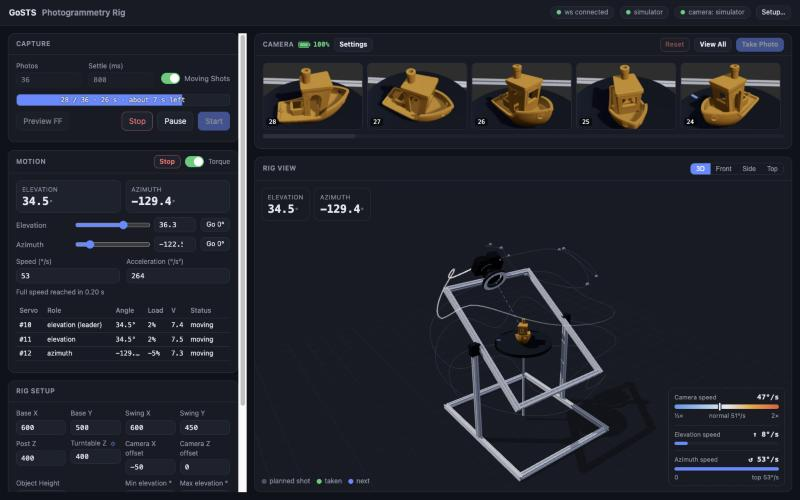
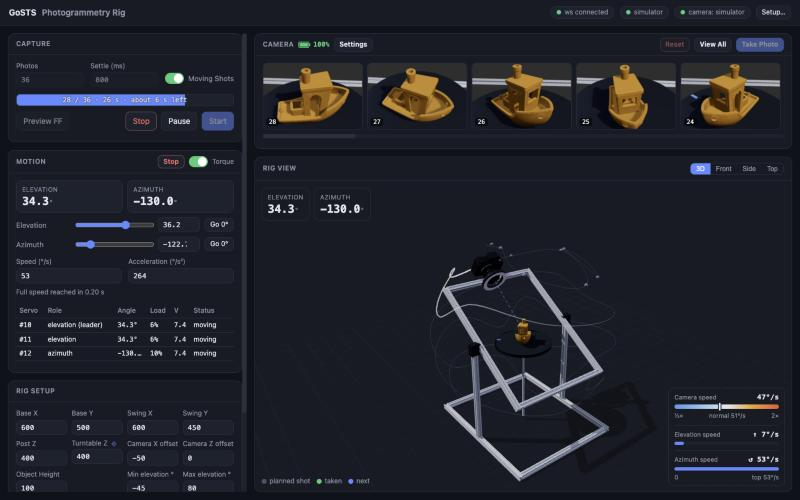
gosts-rig: dark slim scrollbars everywhere (left column, log, photo grid, dialogs); README rewritten for the app's users; new screenshot

diff --git a/cmd/gosts-rig/web/index.html b/cmd/gosts-rig/web/index.html
@@ -113,11 +113,16 @@ td.mono { font-family: var(--mono); }
 .battery.empty { color: var(--bad); }
 /* Camera: the timeline of photos (3:2), newest on the left, scrolling sideways. */
 .timeline { display: flex; gap: 8px; overflow-x: auto; min-width: 0; max-width: 100%; min-height: 120px; align-items: center; padding-bottom: 8px; }
-/* A slim scrollbar that stays visible (macOS otherwise hides it until scrolling). */
+/* Slim scrollbars in the theme's colours that stay visible (macOS otherwise hides them until
+   scrolling): the timeline's, and the scrolling columns, log, photo grid and dialogs'. */
 .timeline::-webkit-scrollbar { height: 8px; }
-.timeline::-webkit-scrollbar-track { background: var(--panel-2); border-radius: 4px; }
-.timeline::-webkit-scrollbar-thumb { background: var(--border); border-radius: 4px; }
-.timeline::-webkit-scrollbar-thumb:hover { background: var(--muted); }
+.left::-webkit-scrollbar, #log::-webkit-scrollbar, .gallery-grid::-webkit-scrollbar, .modal::-webkit-scrollbar { width: 8px; }
+.timeline::-webkit-scrollbar-track, .left::-webkit-scrollbar-track, #log::-webkit-scrollbar-track,
+.gallery-grid::-webkit-scrollbar-track, .modal::-webkit-scrollbar-track { background: var(--panel-2); border-radius: 4px; }
+.timeline::-webkit-scrollbar-thumb, .left::-webkit-scrollbar-thumb, #log::-webkit-scrollbar-thumb,
+.gallery-grid::-webkit-scrollbar-thumb, .modal::-webkit-scrollbar-thumb { background: var(--border); border-radius: 4px; }
+.timeline::-webkit-scrollbar-thumb:hover, .left::-webkit-scrollbar-thumb:hover, #log::-webkit-scrollbar-thumb:hover,
+.gallery-grid::-webkit-scrollbar-thumb:hover, .modal::-webkit-scrollbar-thumb:hover { background: var(--muted); }
 .timeline .thumb { flex: none; height: 120px; aspect-ratio: 3 / 2; position: relative; padding: 0; border: 1px solid var(--border); border-radius: 8px;
   overflow: hidden; background: var(--panel-2); cursor: zoom-in; }
 .timeline .thumb:hover { border-color: var(--accent); }

diff --git a/cmd/gosts-rig/README.md b/cmd/gosts-rig/README.md
@@ -1,121 +1,71 @@
 # gosts-rig: photogrammetry rig
 
-An example app of [Go ST Servo](../../README.md) (`github.com/frifox/gosts`). Its servos are set up and
-calibrated with the servo console, [gosts-ctl](../gosts-ctl).
+Runs a turntable photogrammetry rig from the browser: plan a capture, watch the rig move in 3D, and get the photos
+straight off the camera. An example app of [Go ST Servo](../../README.md).
 
 ![gosts-rig: a moving-shots capture under way, the photos coming in and the rig drawn live](../../docs/gosts-rig.jpg)
 
-`gosts-rig` drives a photogrammetry rig built from 2020 extrusions: a 600×500 mm base with a
-600 mm post in the middle of each long side, an ST3215 on top of each post tilting a 600×450 mm frame
-(camera on one 450 mm bar, counterweight on the other) for the camera's **elevation**, and a third
-ST3215 turning the platform under the object for the **azimuth**.
+## The rig
+
+- A 600×500 mm base of 2020 extrusions with a post on each long side.
+- Two ST3215 servos on the posts tilt a frame carrying the camera: the **elevation**.
+- A third ST3215 turns the platform under the object: the **azimuth**.
+- A camera on USB that [gphoto2](http://gphoto.org) can drive (developed with a Sony A6600 in PC Remote mode).
+
+No hardware? The simulator stands in for the rig, the camera, or both.
+
+## Install and run
 
 ```bash
+brew install gphoto2                        # for a real camera
 go install github.com/frifox/gosts/cmd/gosts-rig@latest
 
-gosts-rig                           # pick the board in the browser (http://localhost:8081)
-gosts-rig -sim                      # simulated rig, no hardware needed
-gosts-rig -sim -camera sim          # and a simulated camera
+gosts-rig                                   # then open http://localhost:8081
+gosts-rig -sim -camera sim                  # simulated rig and camera
 ```
 
-Set up and calibrate the servos with gosts-ctl first (IDs, tuning, and "Set 0° to" so elevation 0° is
-the camera level with the object and azimuth 0° is the platform's front); the two programs can't use
-the serial port at the same time. In gosts-rig, **Setup** assigns the roles (by default #10 elevation
-leader, mirrored; #11 elevation follower; #12 azimuth); the Motion card sets the servos' speed (in °/s) and
-acceleration (in °/s², kept in the servos' steps of about 8.8°/s²; lower acceleration is gentler on the frame). The rig's servos are always switched
-to multi-turn when gosts-rig connects, so moves never take the long way round. Elevation moves go straight
-from where each elevation servo is to the target (kept within the min/max), each worked out in that servo's
-own turn count. Torque on holds the servos where they are: each restarts its turn count from its reading
-(multi-turn off and on) and holds that, first at 35% torque; if one moves away or strains instead, torque
-goes off again with an error naming it.
+## First time
 
-The page has the controls on the left (a **Motion** card that, until a board is connected, lists the serial
-ports to connect to, with Refresh; once connected, live elevation/azimuth: the rig moves as a slider is dragged or a value entered, with Stop shown while it moves, and Torque, and a
-**Capture** card that, until a camera is connected, lists the cameras to connect to (for now the
-simulated one, whose photos are the 3D view rendered from the camera on the rig, looking at the
-object, and any camera [gphoto2](http://gphoto.org) finds on USB, e.g. a Sony A6600 in PC Remote mode),
-and once connected has the number of photos, the settle time, and **Moving Shots**, with Start,
-Pause and Stop; Setup can disconnect either) and on the right a **Camera** card (its title shows the camera's battery level, read every minute: amber below
-20%, red below 10%; a timeline of every photo
-taken, newest on the left, during a capture too (as thumbnails the server shrinks, ~850 px wide: decoding a 24 MP photo for a tile stalled the Rig View), each first as a placeholder while it's taken and comes
-over; hovering one shows a delete button, which takes it off the timeline (its files stay); click one to see it full size, ← → to step, Esc to close;
-**Reset** (red; it asks first), which clears the timeline, **View All**, every photo in a grid over the whole page where a click
-shows one full size (← → to step, Esc, ← All Photos or a click beside the photo back to the grid where it was left, ✕ to close), and **Take Photo**) above the **Rig View**, a live perspective view
-of the rig on the right (a 3D model rendered with [three.js](https://threejs.org): 2020 extrusions, the
-ST3215s, the Sony A6600 with its ring flash, and [#3DBenchy](https://www.3dbenchy.com) (CC0) as the
-object; bundled in the binary, so no internet is needed), with
-every planned shot turning with the platform and turning green once taken; **Preview** animates the
-capture as the rig does it: the camera tilts while the turntable turns the object, the sphere of shots
-and a fading trail with it, coloured by the camera's speed against the path's average (neutral at normal, amber to coral up to 2×, blue down to ½×),
-with a speed key showing the speed now in °/s, and each axis' (elevation ↑↓, azimuth ↺↻) against the servos'
-top speed (red past it: a preview plays faster). Each photo pops its dot and fires the ring flash lightly. A running capture looks the same but follows the real rig (telemetry, smoothed), each
-shot's dot going as its photo is taken; when it ends the trail runs out and the dots return, taken ones green. The photos are spread as evenly as possible over the part of the sphere round the object the
-camera can reach (the min/max elevation in Rig Setup, which keeps the frame clear of the posts), on a
-golden-angle spiral, and taken in rows of similar elevation, each row in azimuth order with
-alternating direction, so the arm moves little and the platform never unwinds a whole turn. With
-**Moving Shots** (for a fast shutter) the rig doesn't stop: the same shots are taken along one smooth
-rising spiral, the platform turning one way while the camera climbs: the rig follows the same smooth curve
-the preview draws (goals streamed ~30 times a second just ahead of it, corrected for how far it trails, within
-the servos' speed and with gentle acceleration), each photo taken as the path passes its shot. The platform servo's multi-turn goals reach only about ±7.5
-turns from where its count started, so a long spiral goes in laps: as far as fits, then the rig stops for a moment
-while the servo's turn count is reset where it is (its calibrate-middle re-references the count; its own zero is
-put back straight after, so the angle reads as before; under a second), and the spiral carries on (any number of
-photos: 400 make a 13-turn spiral, one reset). If a reset can't be confirmed, the platform unwinds instead (whole
-turns back to the same angle, about 176°/s). If the spiral fits turning the other way from where the platform is
-(the same shots, mirrored), it goes that way.
-While a capture runs, the bar's text has the photos done, the time so far and about how long is left (by the
-pace since the first photo; a pause doesn't count). When the last photo is taken the rig returns to 0°/0° the short way (less than a turn) and stops. A preview
-only moves the view: it never moves the rig or uses the camera. Each photo is
-taken with the connected camera, recording where the rig really is as the shutter goes.
+1. Set up the servos with [gosts-ctl](../gosts-ctl) first: IDs, tuning, and zero (elevation 0° = camera level with
+   the object, azimuth 0° = the platform's front). Close it after: only one program can use the serial port.
+2. In gosts-rig, **Setup** picks which servo does what (by default #10 and #11 elevation, #12 azimuth).
+3. **Rig Setup** takes your rig's measurements and how low and high the camera may go.
+4. Set the camera to **RAW & JPEG** (on a Sony in PC Remote: save to PC+Camera). The RAWs stay on the card,
+   and only the JPEGs come over USB.
 
-A real camera is driven through gphoto2 (`brew install gphoto2`). Set it to RAW & JPEG (and, for a Sony in
-PC Remote, save to PC+Camera): each photo's RAW stays on the camera's card and only the JPEG comes over USB
-(much quicker; each matched to its photo by the camera's file number, so a JPEG left over from before
-is kept but never shown as a new photo), saved in a folder per batch, `~/Pictures/gosts-rig/<yyyy-mm-dd hh.mm.ss>/` named after the batch's first photo
-(`PhotoDir` in the config file changes the parent; a batch runs from the app's start, or **Reset**, which also
-numbers the photos from 1 again), and shown on
-the page. A camera on JPEG only works the same way; on RAW only no picture would come. On macOS the
-system's camera service grabs a camera when it's plugged in (and may open Photos): if taking a photo says
-another program has the camera, quit Photos and Image Capture and run `killall ptpcamerad mscamerad-xpc`.
-**Settings** (in the Camera title, right of the battery, while a camera is connected) opens the camera's settings next to a sample shot: exposure mode (P, A, S,
-M; shutter, f-stop and ISO hold in M), shutter speed, f-stop (all there are, until **Detect** next to it finds
-the lens's: the camera steps the aperture to its limits and back, about half a minute), ISO, white balance
-(with a **Color temperature (K)** field and slider, 2500–9900 K by 100, when it's on Choose Color Temperature) and its shifts, as on the camera's WB grid: **amber–blue** and **green–magenta** sliders, ±7 (A–B by halves, G–M by quarters; **Reset** beside each, or a double-click, puts it back to 0, the camera's default; e.g. a magenta cast colour temperature can't fix is set off towards G)
-and focus mode, each change
-sent to the camera at once; **Take Sample Shot** takes a photo (kept off the timeline, saved in the batch's
-folder name with `-samples`)
-and shows it with the settings it was taken at, to adjust from. Beside **F-stop**: the depth of field at the f-stop
-chosen (it changes with it), focused on the object's middle (the turntable's middle, up half the object's height:
-its distance from the camera's sensor from the rig's geometry), at the focal length the last photo was taken at
-(EXIF: a zoom's, as set); "sharp" by Sony's standard for APS-C (0.02 mm blur), the tip also strict (2 pixels,
-0.008 mm). **Focus** (beside the focus mode, in Manual, DMF
-or AF-S): drag a rectangle around a part of the sample and it's shown large over the sample, from the full-size
-photo, with its sharpness (the spread of its edges: higher is sharper, comparable for the same part). **Auto**: the
-app focuses on that part: the camera's autofocus gets it close (where its focus area says; in Manual it switches
-to AF-S for it and back, so the focus stays locked for the capture), then the app steps the lens, medium steps
-then small, a sample after each, on while the part gets sharper and back a step when it doesn't, ending at the
-sharpest it saw (about 10–15 samples, half a minute; click again to stop). The near/far steps (‹ ‹‹ ‹‹‹, › ›› ›››:
-small to large, Manual and DMF) drive the lens by hand (the big ones don't come back to quite the same place);
-after each a new sample is taken and the part shown again, ▲ sharper or ▼ softer, till Close. (In AF-S or DMF
-the camera won't fire till it has focus: Manual, focused from here, is the steady choice for a capture.) **Gray Card** (right of the colour temperature slider, in Kelvin mode): drag a rectangle
-inside a gray card in the sample, and the app works out what makes it neutral, from the card's average colour and
-the settings the sample was taken with, a button each to set: **Temperature** (when the white balance was a known
-one) or **Amber–blue** (the A–B shift: one or the other, so setting one greys out the other), and **Green–magenta**
-(the G–M shift: what colour temperature can't fix); one that would change nothing is greyed out (a shift step moves a colour ratio by e^0.0275 a quarter step, measured
-on the A6600); each new sample is measured again in the same rectangle (till Dismiss or a new one). The simulated
-camera has the same settings, and its sample comes out brighter or darker with them, and tinted by its 4300 K,
-slightly green light against its white balance and shifts.
+## Taking photos
 
-gosts-rig keeps one gphoto2 shell open on the camera: firing the shutter takes about 1.1 s on the A6600 (nothing
-downloaded), and the JPEGs are collected in between, each to its own photo, while the rig moves on. Stopping
-shots and Take Photo wait for the shutter only; Moving Shots doesn't wait at all, its path paced so the shots
-are no closer together than the camera can keep up with (firing plus downloading, measured as it goes, about
-2 s), each shot's pose read as its shutter goes.
+- **Capture**: choose how many photos you want. They're spread evenly round the object, as high and low as the
+  camera may go.
+- **Moving Shots**: the rig doesn't stop for each photo. It glides along one smooth spiral instead, which is much
+  faster, for a quick enough shutter. Any number of photos works; on long spirals the rig pauses for a moment now
+  and then to reset the platform servo's turn count.
+- **Preview** plays the capture in the 3D view first, without moving the rig.
+- **Start**, **Pause**, **Stop**. The progress bar shows the photos done and about how long is left.
+- **Take Photo** takes a single photo where the rig is.
 
-The **Rig Setup** card (below Motion; like every card it folds by its title, each window remembering which are folded) sets the rig's measurements for the 3D view (in mm, seen from above: base X/Y, post Z, swing
-X/Y, the camera's offset along the arms (camera X) and up/down from the bar (camera Z, default 0), the turntable's height (turntable Z), the object's height (object height, the model is scaled to it); the defaults draw the rig to scale)
-and the min/max elevation the camera may reach (default −45° to 80°).
-The view has 3D, Front (from behind the camera, looking at the object), Side (along the tilt axis) and Top
-presets.
+Photos appear in the Camera card as they arrive. Click one to see it full size, **View All** for a grid. They're
+saved in `~/Pictures/gosts-rig/`, a folder per batch named after its start time. **Reset** starts a new batch.
 
-Settings are kept in `gosts-rig/config.toml` in the user's config directory (`-config` to change; one left in `gosts/config.toml` from before the app's rename is copied over the first time).
+## Camera settings
+
+**Settings** (in the Camera card's title) opens the camera's settings next to a sample shot.
+
+- Shutter, f-stop, ISO, white balance and focus, applied as you change them. **Take Sample Shot** shows how
+  they look.
+- **Detect** next to the f-stop finds the range your lens really has (about half a minute).
+- Next to the f-stop: the **depth of field**, how deep the sharp zone is, for where the object sits on the rig.
+- **Gray Card** (with white balance on a colour temperature): drag a box over a gray card in the sample. It
+  suggests the colour temperature and colour shifts that make the card neutral, a button each to apply.
+- **Focus** (in Manual focus): drag a box over the part that matters to see it large. **Auto** focuses on that
+  part for you; the arrows nudge the focus nearer or further. Focus stays where you leave it for the capture.
+
+## Tips
+
+- *"Another program has the camera"* (macOS): quit Photos and Image Capture, then run
+  `killall ptpcamerad mscamerad-xpc`.
+- Use **Manual** focus for captures: in an autofocus mode the camera won't fire until it has found focus.
+- The battery level is shown next to the Camera card's title.
+
+Settings are kept in `~/Library/Application Support/gosts-rig/config.toml` on macOS (`~/.config/gosts-rig/` on
+Linux); `-config` picks another file.
